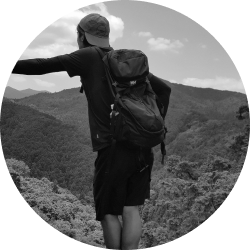
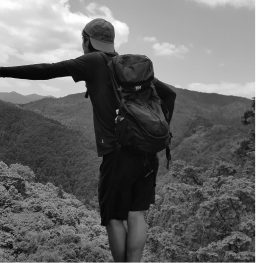
about改善

diff --git a/src/pages/about.tsx b/src/pages/about.tsx
@@ -1,17 +1,21 @@
 import type { NextPage } from 'next';
+import Image from 'next/image';
 import CommonMeta from '../components/common_meta';
 import PageLayout from '../components/page_layout';
+
 const About: NextPage = () => {
   return (
     <div>
       <CommonMeta
-        pageTitle="About"
+        pageTitle="ABOUT"
         pageDescription="Webエンジニア 藤原智弥の自己紹介ページです。"
       />
-      <PageLayout title="About">
-        <div className="flex flex-col">
-          <div className="m-auto w-52 h-52 bg-[url('/profile.png')] bg-repeat bg-contain"></div>
-          <div className="py-10 m-auto">
+      <PageLayout title="ABOUT">
+        <div className="flex flex-col justify-center items-start sm:flex-row sm:gap-8">
+          <div className="w-full sm:w-[calc(50%_-_5rem)]">
+            <Image src="/profile.png" width="592" height="592" alt="tomoya.me" />
+          </div>
+          <div className="py-10 w-full sm:w-[calc(50%_-_1rem)] sm:min-w-[calc(50%_-_1rem)]">
             <div className="flex items-center text-2xl">Tomoya Fujiwara</div>
             <div className="mt-4 text-xs tracking-wider leading-loose">
               1995年生まれ Webエンジニア。

diff --git a/src/pages/note.tsx b/src/pages/note.tsx
@@ -39,10 +39,10 @@ const Note: NextPage<React.ReactNode> = (props: Props) => {
   return (
     <div>
       <CommonMeta
-        pageTitle="Note"
+        pageTitle="note"
         pageDescription="Webエンジニア 藤原智弥のnoteに投稿された最新記事を紹介します。"
       />
-      <PageLayout title="Note">
+      <PageLayout title="note">
         <p className="text-xs leading-6">Work, Programing, Outdoor etc...</p>
         <p className="mb-6 text-xs leading-6">note記事サイトに遷移します。</p>
         <div className="flex flex-row flex-wrap gap-2 justify-center items-start max-w-5xl">

diff --git a/src/components/page_layout.tsx b/src/components/page_layout.tsx
@@ -12,7 +12,7 @@ const PageLayout = ({ children, title }: Props) => {
     <>
       <Header />
       <section className="flex-col flex-none justify-center items-start px-5 mt-24 h-40 text-3xl lg:mx-auto lg:max-w-screen-lg">
-        <h3>{title}</h3>
+        <h3 className="text-2xl font-bold">{title}</h3>
       </section>
       <motion.main
         className="flex-col flex-1 items-center px-6 min-h-screen lg:m-auto lg:max-w-screen-lg"
